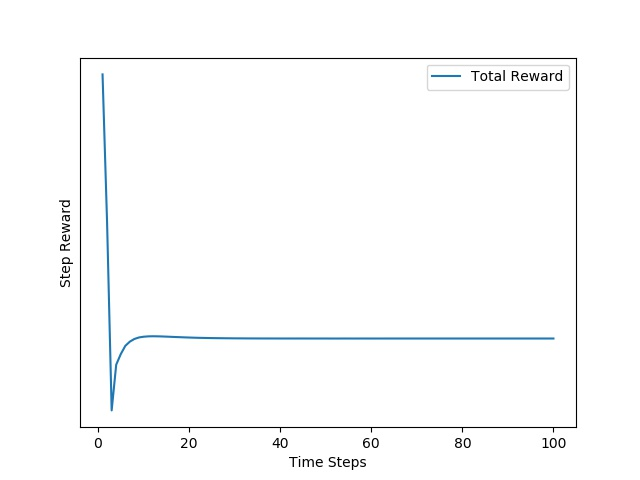
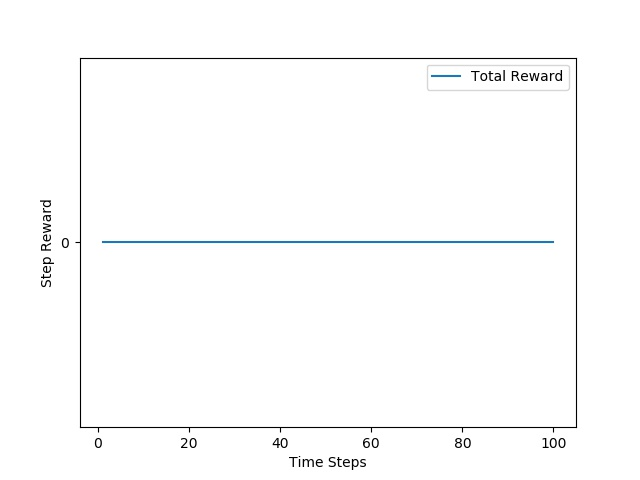
add tossing

Changed region(s): [[0.1562, 0.1562, 0.875, 0.8438], [0.0625, 0.4062, 0.125, 0.5938]]

diff --git a/gym/envs/flex/plastic_flipping_env.py b/gym/envs/flex/plastic_flipping_env.py
@@ -21,8 +21,8 @@ class PlasticFlippingEnv(flex_env.FlexEnv):
     def __init__(self):
 
         self.resolution = 32
-        self.direct_info_dim = 12
-        obs_size = self.resolution * self.resolution * 2 + self.direct_info_dim
+        self.direct_info_dim = 10
+        obs_size = self.resolution * self.resolution  + self.direct_info_dim
 
         self.frame_skip = 10
         self.mapHalfExtent = 4
@@ -32,14 +32,14 @@ class PlasticFlippingEnv(flex_env.FlexEnv):
 
         self.numInitClusters = 1
         self.randomCluster = True
-        self.clusterDim = np.array([5,2,5])
-        action_bound = np.array([[-7, -7, -7, -np.pi / 2,-np.pi / 2], [
-            7, 7, 7, np.pi / 2,np.pi / 2]])
+        self.clusterDim = np.array([3,3,3])
+        action_bound = np.array([[-10, -10, -10, -np.pi / 2], [
+            10, 10, 10, np.pi / 2]])
 
         obs_high = np.ones(obs_size) * np.inf
         obs_low = -obs_high
         observation_bound = np.array([obs_low, obs_high])
-        flex_env.FlexEnv.__init__(self, self.frame_skip, obs_size, observation_bound, action_bound, scene=4, viewer=1)
+        flex_env.FlexEnv.__init__(self, self.frame_skip, obs_size, observation_bound, action_bound, scene=5, viewer=1)
 
         self.metadata = {
             'render.modes': ['human', 'rgb_array'],
@@ -47,7 +47,7 @@ class PlasticFlippingEnv(flex_env.FlexEnv):
         }
 
         self.action_scale = (action_bound[1] - action_bound[0]) / 2
-        self.barDim = np.array([0.7, 0.7, 0.01])
+        self.barDim = np.array([1.7, 0.01, 1.7])
 
         # self.goal_gradients = np.zeros((self.numInstances,self.resolution,self.resolution))
 
@@ -60,8 +60,7 @@ class PlasticFlippingEnv(flex_env.FlexEnv):
         self.currCurriculum = 0
         self.rwdBuffer = [[0, 0, 0] for _ in range(100)]
 
-        self.minHeight = 0.2
-        print("With Height Map Attraction. X Y Axis of Rotation")
+        print("============================================Flipping================================================")
 
     def angle_to_rot_matrix(self, angles):
         rot_vec = np.ones((self.numInstances, 2, 2))
@@ -103,11 +102,10 @@ class PlasticFlippingEnv(flex_env.FlexEnv):
         flex_action[:, 2] = transformed_action[:, 2]
 
         flex_action[:, 3] = prev_bar_state[:, 1, 0] + action[:, 3]
-        flex_action[:, 4] = prev_bar_state[:, 1, 1] + action[:, 4]
+        flex_action[:, 4] = 0
         flex_action[:, 5] = 0
         flex_action[:, 6] = 0
 
-        prev_height_sum = (np.mean(prev_part_heights, axis=1))
 
         # Simulation
         done = self.do_simulation(flex_action, self.frame_skip)
@@ -116,58 +114,14 @@ class PlasticFlippingEnv(flex_env.FlexEnv):
 
         obs = self._get_obs()
 
-        untransformed_density = np.zeros((self.numInstances, self.resolution * self.resolution))
-        untransformed_height = np.zeros((self.numInstances, self.resolution * self.resolution))
+        height_diff = np.min(curr_part_heights,axis=1)-curr_bar_state[:,0,1]
 
-        for i in range(self.numInstances):
-            part_state = curr_part_state[i]
 
-            filtered_parts = part_state[
-                (part_state[:, 0] > -self.mapHalfExtent) & (part_state[:, 0] < self.mapHalfExtent) & (
-                        part_state[:, 1] > -self.mapHalfExtent) & (part_state[:, 1] < self.mapHalfExtent)]
+        height_diff[height_diff>0] = 0.1+height_diff[height_diff>0]*10
+        height_diff[height_diff<0] = np.clip(height_diff[height_diff<0],-0.1,0)
 
-            density = self.get_particle_density(
-                filtered_parts, np.array([[0, 0, 0]]), np.identity(2), normalized=True)
-
-            height = self.get_mean_height_map(filtered_parts, np.array([[0, 0, 0]]), np.identity(2),
-                                              curr_part_heights[i])
-            untransformed_density[i] = density.flatten()
-            untransformed_height[i] = height.flatten()
-
-        maxFlatIdx = np.argmax(untransformed_height, axis=1)
-        maxI = (maxFlatIdx / self.resolution).astype(int)
-        maxJ = maxFlatIdx - self.resolution * maxI
-
-        posX = np.expand_dims((maxJ + 0.5) / self.resolution * self.mapHalfExtent * 2 - self.mapHalfExtent, axis=1)
-        posY = np.expand_dims((maxI + 0.5) / self.resolution * self.mapHalfExtent * 2 - self.mapHalfExtent, axis=1)
-
-        densePos = np.concatenate([posX, posY], axis=1)
-        # transformed_densePos = np.matmul()
-        to_bar_dist_curr = (np.linalg.norm(densePos - curr_bar_state[:, 0, (0, 2)], axis=1)) ** 2
-
-        part_movement_rwd = np.mean(np.linalg.norm(
-            (curr_part_state - prev_part_state), axis=2), axis=1)
-        part_movement_rwd = (1 - np.exp(-40 * part_movement_rwd))
-
-        curr_height_sum = (np.mean(curr_part_heights, axis=1))
-
-        # print(1-np.exp(-40*part_movement_rwd))
-        target_dist_curr = np.zeros(self.numInstances)
-        # print(curr_pair_wise_dist[0]-prev_pair_wise_dist[0])
-        # for i in range(self.numInstances):
-        #     dist= to_bar_dist_curr[i]
-        #     if(dist<=2):
-        #         self.stage[i]  =  0
-        #         target_dist_curr[i] = 0.4*np.clip(np.exp(3*(-curr_height_sum[i])),0,1)+0.6*(1-np.exp(-40*part_movement_rwd[i]))
-
-        #     else:
-        #         self.stage[i]  =  1
-        #         target_dist_curr[i] = -0.1*np.exp(0.02*(dist-2))
-        # print(1 - curr_height_sum)
-        height_min_rwd = (1 - np.clip(np.exp(- (0.8 - curr_height_sum)),0,2))
-        # height_min_rwd = 50*(prev_height_sum - curr_height_sum)
-
-        rewards = 1 * height_min_rwd + 0 * part_movement_rwd
+        
+        rewards = height_diff
 
         # print(self.stage[0])
         self.rolloutRet += rewards
@@ -175,7 +129,7 @@ class PlasticFlippingEnv(flex_env.FlexEnv):
             'Total Reward': rewards[0],
 
         }
-        reward_decomp = [rewards[0], 1 * height_min_rwd[0], 0 * part_movement_rwd[0]]
+        reward_decomp = [0,0,0]
         if (len(self.rwdBuffer) >= 100):
             self.rwdBuffer.pop(0)
         self.rwdBuffer.append(reward_decomp)
@@ -219,15 +173,12 @@ class PlasticFlippingEnv(flex_env.FlexEnv):
             bar_pos = bar_state[0]  # 3
             bar_ang_x = np.array([np.cos(bar_state[1, 0]), np.sin(bar_state[1, 0])])  # 2
 
-            bar_ang_y = np.array([np.cos(bar_state[1, 1]), np.sin(bar_state[1, 1])])  # 2
-
             bar_vel = bar_state[2]  # 3
-            bar_ang_vel_x = np.array([bar_state[3, 0]])  # 1
-            bar_ang_vel_y = np.array([bar_state[3, 1]])  # 1
+            bar_ang_vel_x = np.array([np.cos(bar_state[3, 0]), np.sin(bar_state[3, 0])])  # 2
 
-            bar_info = np.concatenate([bar_pos, bar_ang_x,bar_ang_y, bar_vel, bar_ang_vel_x,bar_ang_vel_y])
+            bar_info = np.concatenate([bar_pos, bar_ang_x, bar_vel, bar_ang_vel_x])
             obs = np.concatenate(
-                [bar_info, density.flatten(), height_map.flatten()
+                [bar_info, height_map.flatten()
                  ])
 
             obs_list.append(obs)
@@ -257,6 +208,7 @@ class PlasticFlippingEnv(flex_env.FlexEnv):
         if (particles.shape[0] == 0):
             return np.zeros((self.resolution, self.resolution))
         particles -= bar_state[0, (0, 2)]
+        heights-=bar_state[0, 1]
 
         particles = np.matmul(particles, rot.transpose())
 
@@ -305,9 +257,11 @@ class PlasticFlippingEnv(flex_env.FlexEnv):
                 for j in range(self.numInitClusters):
                     self.initClusterparam[i, (j * 6, j * 6 + 2)
                     ] = self.idxPool[indices[j]] * 2.5
+                    self.initClusterparam[i,j*6+1] = 3
                     self.initClusterparam[i, j * 6 + 3:j * 6 + 6] = self.clusterDim
 
                 self.setInitClusterParam(self.initClusterparam)
+
 
         flex_env.FlexEnv._reset(self)
 
@@ -315,12 +269,12 @@ class PlasticFlippingEnv(flex_env.FlexEnv):
         self.setMapHalfExtent(self.mapHalfExtent)
 
         pos = np.zeros((self.numInstances, 3))
-        pos[:,2] = -0.4
+        # pos[:,2] = -0.4
         # pos[:,1] = np.random.uniform(self.minHeight,2,(self.numInstances))
         # pos[:, 1] = self.good_height  # Set the height at fixed good height
 
         rot = np.zeros((self.numInstances, 3))
-        rot[:,0] = np.pi/2
+        # rot[:,0] = np.pi/2
 
         rot[:, 2] = 0  # Do not control the z axis rotation
 
@@ -385,11 +339,11 @@ class PlasticFlippingEnv(flex_env.FlexEnv):
         ll = surfaces[2]
         lr = surfaces[3]
 
-        part_map = obs[0, 9:9 + self.resolution * self.resolution]
-        goal_map = obs[0, 9 + self.resolution * self.resolution:9 +
+        part_map = obs[0, self.direct_info_dim:self.direct_info_dim + self.resolution * self.resolution]
+        goal_map = obs[0, self.direct_info_dim + self.resolution * self.resolution:self.direct_info_dim +
                                                                 2 * (self.resolution * self.resolution)]
         particle_goal_map = obs[0,
-                            9 + 2 * self.resolution * self.resolution:9 + 3 * (self.resolution * self.resolution)]
+                            self.direct_info_dim + 2 * self.resolution * self.resolution:self.direct_info_dim + 3 * (self.resolution * self.resolution)]
         # bar_map = obs[0, 8 + 2 * self.resolution *
         #               self.resolution:8 + 3 * (self.resolution * self.resolution)]
 
@@ -427,22 +381,19 @@ class PlasticFlippingEnv(flex_env.FlexEnv):
         ll.fill([200, 200, 200])
         lr.fill([200, 200, 200])
 
-        part_map = obs[0, self.direct_info_dim:self.direct_info_dim + self.resolution * self.resolution]
+        height_map = obs[0, self.direct_info_dim:self.direct_info_dim + self.resolution * self.resolution]
 
-        part_map = np.reshape(
-            part_map, (self.resolution, self.resolution)).astype(np.float64)
-
-        height_map = obs[0,
-                     self.direct_info_dim + self.resolution * self.resolution:self.direct_info_dim + 2 * self.resolution * self.resolution]
         height_map = np.reshape(
             height_map, (self.resolution, self.resolution)).astype(np.float64)
+
+
         # self.draw_grid(tl, bar_map, 0, 1)
         self.live_rwd(tl, self.rwdBuffer)
         # self.draw_grid(tr, goal_map, 0, 1)
         # self.live_pc(ll,self.curr_pc)
         self.draw_grid(ll, height_map, 0, 1)
 
-        self.draw_grid(lr, part_map, 0, 1)
+        # self.draw_grid(lr, part_map, 0, 1)
         #
         self.screen.blit(tl, (0, 0))
         self.screen.blit(tr, (self.screen.get_width() /
@@ -534,9 +485,17 @@ if __name__ == '__main__':
         # env.render()
         # print(pyFlex.get_state())
         # act = np.random.uniform([-4, -4, -1, -1], [4, 4, 1, 1],(25,4))
-        act = np.zeros((49, 5))
+        act = np.zeros((49, 4))
         # act[:, 0]=0
-        act[:, 1] = 1
+
+        if(i%100<30):
+            act[:, 1] = 1
+
+            # act[:, 3] = 1
+
+        else:
+            act[:, 1] = -1
+            # act[:, 3] = -1
         # act[:, 2] = 0
         # act[:, 3] = -1
         # act[:, 4] = 1

diff --git a/gym/envs/flex/plastic_spreading_rot_xy_height_env.py b/gym/envs/flex/plastic_spreading_rot_xy_height_env.py
@@ -40,7 +40,7 @@ class PlasticSpreadingRotXYHeightEnv(flex_env.FlexEnv):
         obs_high = np.ones(obs_size) * np.inf
         obs_low = -obs_high
         observation_bound = np.array([obs_low, obs_high])
-        flex_env.FlexEnv.__init__(self, self.frame_skip, obs_size, observation_bound, action_bound, scene=4, viewer=0)
+        flex_env.FlexEnv.__init__(self, self.frame_skip, obs_size, observation_bound, action_bound, scene=4, viewer=1)
 
         self.metadata = {
             'render.modes': ['human', 'rgb_array'],

diff --git a/gym/envs/flex/__init__.py b/gym/envs/flex/__init__.py
@@ -8,3 +8,4 @@ from gym.envs.flex.plastic_test_env import PlasticTestEnv
 from gym.envs.flex.plastic_spreading_rot_height_env import PlasticSpreadingRotHeightEnv
 from gym.envs.flex.plastic_spreading_rot_xy_height_env import PlasticSpreadingRotXYHeightEnv
 from gym.envs.flex.plastic_spring_multi_goal_bar_centered_rot_height_env import PlasticSpringMultiGoalBarCenteredRotHeightEnv
+from gym.envs.flex.plastic_flipping_env import PlasticFlippingEnv

diff --git a/gym/envs/flex/flex_env.py b/gym/envs/flex/flex_env.py
@@ -114,7 +114,9 @@ class FlexEnv(gym.Env):
         state = pyFlex.resetScene()
         palceholder_act = np.zeros((self.numInstances,7))
         palceholder_act[:,-1] = 1
-        self.do_simulation(palceholder_act, 100)
+        self.do_simulation(palceholder_act, 200)
+
+        
         return state
     def get_state(self):
         state_vec = pyFlex.get_state()

diff --git a/gym/envs/__init__.py b/gym/envs/__init__.py
@@ -622,6 +622,12 @@ register(
     max_episode_steps=500,
 )
 
+register(
+    id='FlexPlasticReshaping-v4',
+    entry_point='gym.envs.flex:PlasticFlippingEnv',
+    max_episode_steps=200,
+)
+
 
 # Atari
 # ----------------------------------------
